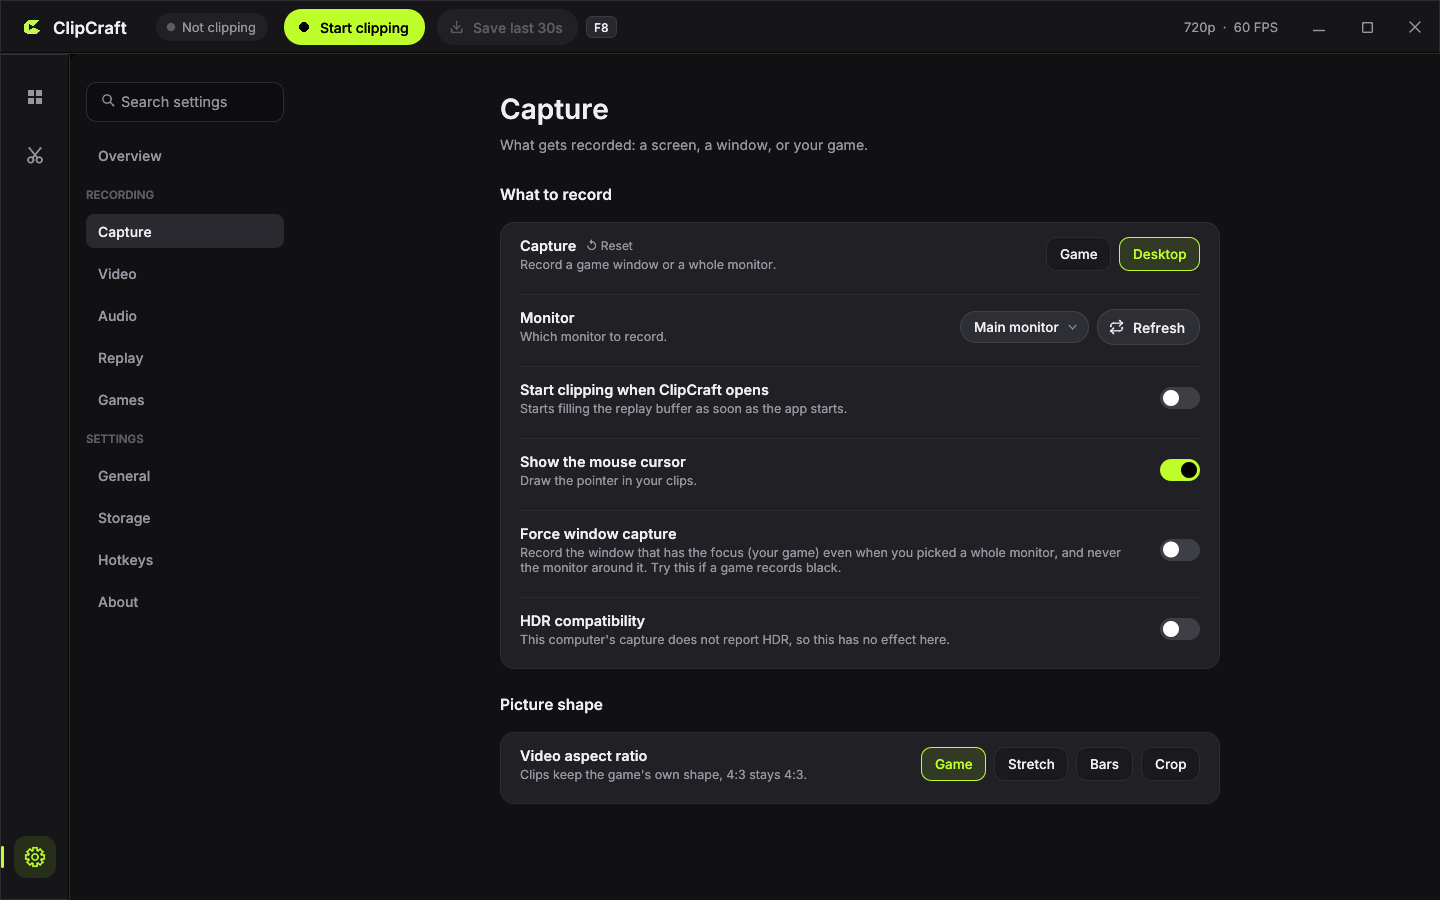
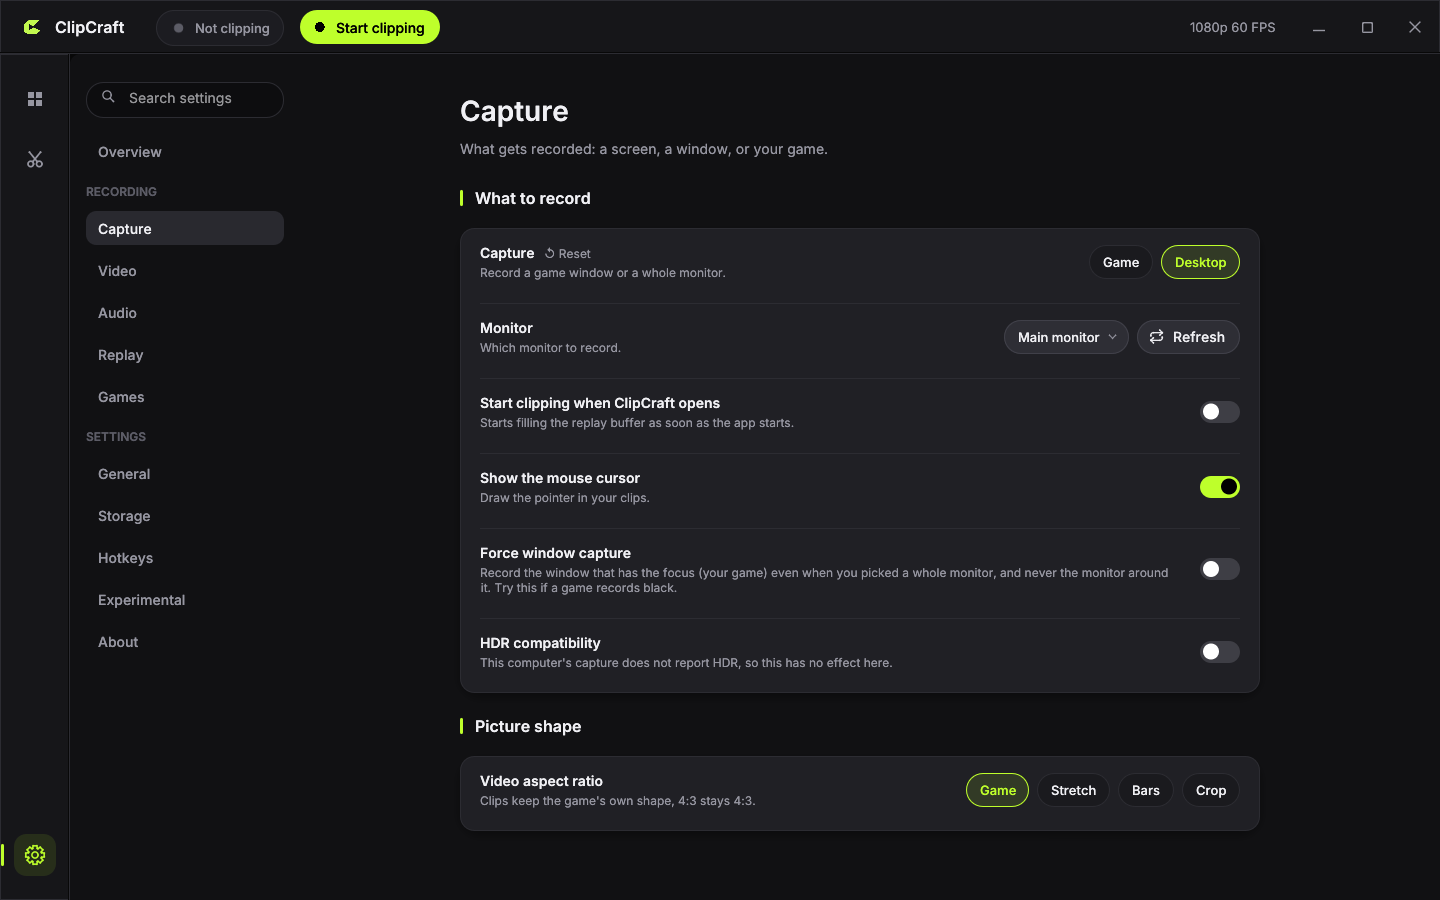
README: new screenshots of the current window (clips, choosing clips, editor, capture settings)
Claude-Session: https://claude.ai/code/session_01RDvxCSZhPZeiSHhNvQFkav

diff --git a/ATTRIBUTION.md b/ATTRIBUTION.md
@@ -14,9 +14,10 @@ See [ADR 0022](docs/adr/0022-local-game-state.md) for the narrowly scoped trust 
 
 | Asset | Source | License / attribution |
 | --- | --- | --- |
-| `docs/screenshots/library.png` | ClipCraft 0.2.0 captured by contributors with original generated sample footage | MIT; interface text uses Inter under SIL OFL 1.1 |
-| `docs/screenshots/editor.png` | ClipCraft 0.2.0 captured by contributors with original generated sample footage | MIT; interface text uses Inter under SIL OFL 1.1 |
-| `docs/screenshots/capture-settings.png` | ClipCraft 0.2.0 captured by contributors on a private Linux display | MIT; interface text uses Inter under SIL OFL 1.1 |
+| `docs/screenshots/library.png` | ClipCraft (November 2026 development version) captured by contributors with original generated sample footage | MIT; interface text uses Inter under SIL OFL 1.1 |
+| `docs/screenshots/choose-clips.png` | ClipCraft (November 2026 development version) captured by contributors with original generated sample footage | MIT; interface text uses Inter under SIL OFL 1.1 |
+| `docs/screenshots/editor.png` | ClipCraft (November 2026 development version) captured by contributors with original generated sample footage | MIT; interface text uses Inter under SIL OFL 1.1 |
+| `docs/screenshots/capture-settings.png` | ClipCraft (November 2026 development version) captured by contributors on a private Linux display | MIT; interface text uses Inter under SIL OFL 1.1 |
 | `assets/brand/mark-lime.svg` | Original ClipCraft CUT geometry, developed from the maintainer-selected AI-assisted concept A; ClipCraft contributors | MIT; no third-party artwork or embedded font |
 | `assets/brand/mark-black.svg` | Same original CUT geometry, charcoal variant | MIT |
 | `assets/brand/mark-white.svg` | Same original CUT geometry, paper variant | MIT |

diff --git a/docs/screenshots/editor.png.license.md b/docs/screenshots/editor.png.license.md
@@ -1,5 +1,5 @@
 # Screenshot provenance
 
-- Source: ClipCraft 0.2.0 running on a private Linux virtual display, captured by ClipCraft contributors.
-- Media shown: original, fictional sample footage generated for this screenshot; no game footage or user media.
+- Source: ClipCraft (the current development version, November 2026) running on a private Linux virtual display with software rendering, captured by ClipCraft contributors.
+- Media shown: original, fictional sample footage (generated test patterns); no game footage or user media.
 - License: MIT (ClipCraft project license). The interface uses the Inter font under the SIL Open Font License 1.1; see `assets/fonts/OFL-Inter.md`.

diff --git a/docs/screenshots/library.png.license.md b/docs/screenshots/library.png.license.md
@@ -1,5 +1,5 @@
 # Screenshot provenance
 
-- Source: ClipCraft 0.2.0 running on a private Linux virtual display, captured by ClipCraft contributors.
-- Media shown: original, fictional sample footage generated for this screenshot; no game footage or user media.
+- Source: ClipCraft (the current development version, November 2026) running on a private Linux virtual display with software rendering, captured by ClipCraft contributors.
+- Media shown: original, fictional sample footage (generated test patterns); no game footage or user media.
 - License: MIT (ClipCraft project license). The interface uses the Inter font under the SIL Open Font License 1.1; see `assets/fonts/OFL-Inter.md`.

diff --git a/docs/screenshots/capture-settings.png.license.md b/docs/screenshots/capture-settings.png.license.md
@@ -1,5 +1,5 @@
 # Screenshot provenance
 
-- Source: ClipCraft 0.2.0 running on a private Linux virtual display, captured by ClipCraft contributors.
-- Media shown: no game footage, clips, or user media.
+- Source: ClipCraft (the current development version, November 2026) running on a private Linux virtual display with software rendering, captured by ClipCraft contributors.
+- Media shown: original, fictional sample footage (generated test patterns); no game footage or user media.
 - License: MIT (ClipCraft project license). The interface uses the Inter font under the SIL Open Font License 1.1; see `assets/fonts/OFL-Inter.md`.

diff --git a/README.md b/README.md
@@ -43,8 +43,20 @@ never goes online if you turn that off.
 
 ## Screenshots
 
+**Clips:** search, favorites, collections, a heading for each day.
+
 ![The clip library](docs/screenshots/library.png)
+
+**Choose many at once:** click, Shift-click or draw a box, then favorite, collect or delete.
+
+![Choosing several clips](docs/screenshots/choose-clips.png)
+
+**Editor:** split on the timeline, add text, pick a picture shape, export.
+
 ![The editor](docs/screenshots/editor.png)
+
+**Settings:** choose what to record and how.
+
 ![Capture settings](docs/screenshots/capture-settings.png)
 
 ## Build and run

diff --git a/docs/screenshots/choose-clips.png.license.md b/docs/screenshots/choose-clips.png.license.md
@@ -1,0 +1,5 @@
+# Screenshot provenance
+
+- Source: ClipCraft (the current development version, November 2026) running on a private Linux virtual display with software rendering, captured by ClipCraft contributors.
+- Media shown: original, fictional sample footage (generated test patterns); no game footage or user media.
+- License: MIT (ClipCraft project license). The interface uses the Inter font under the SIL Open Font License 1.1; see `assets/fonts/OFL-Inter.md`.
